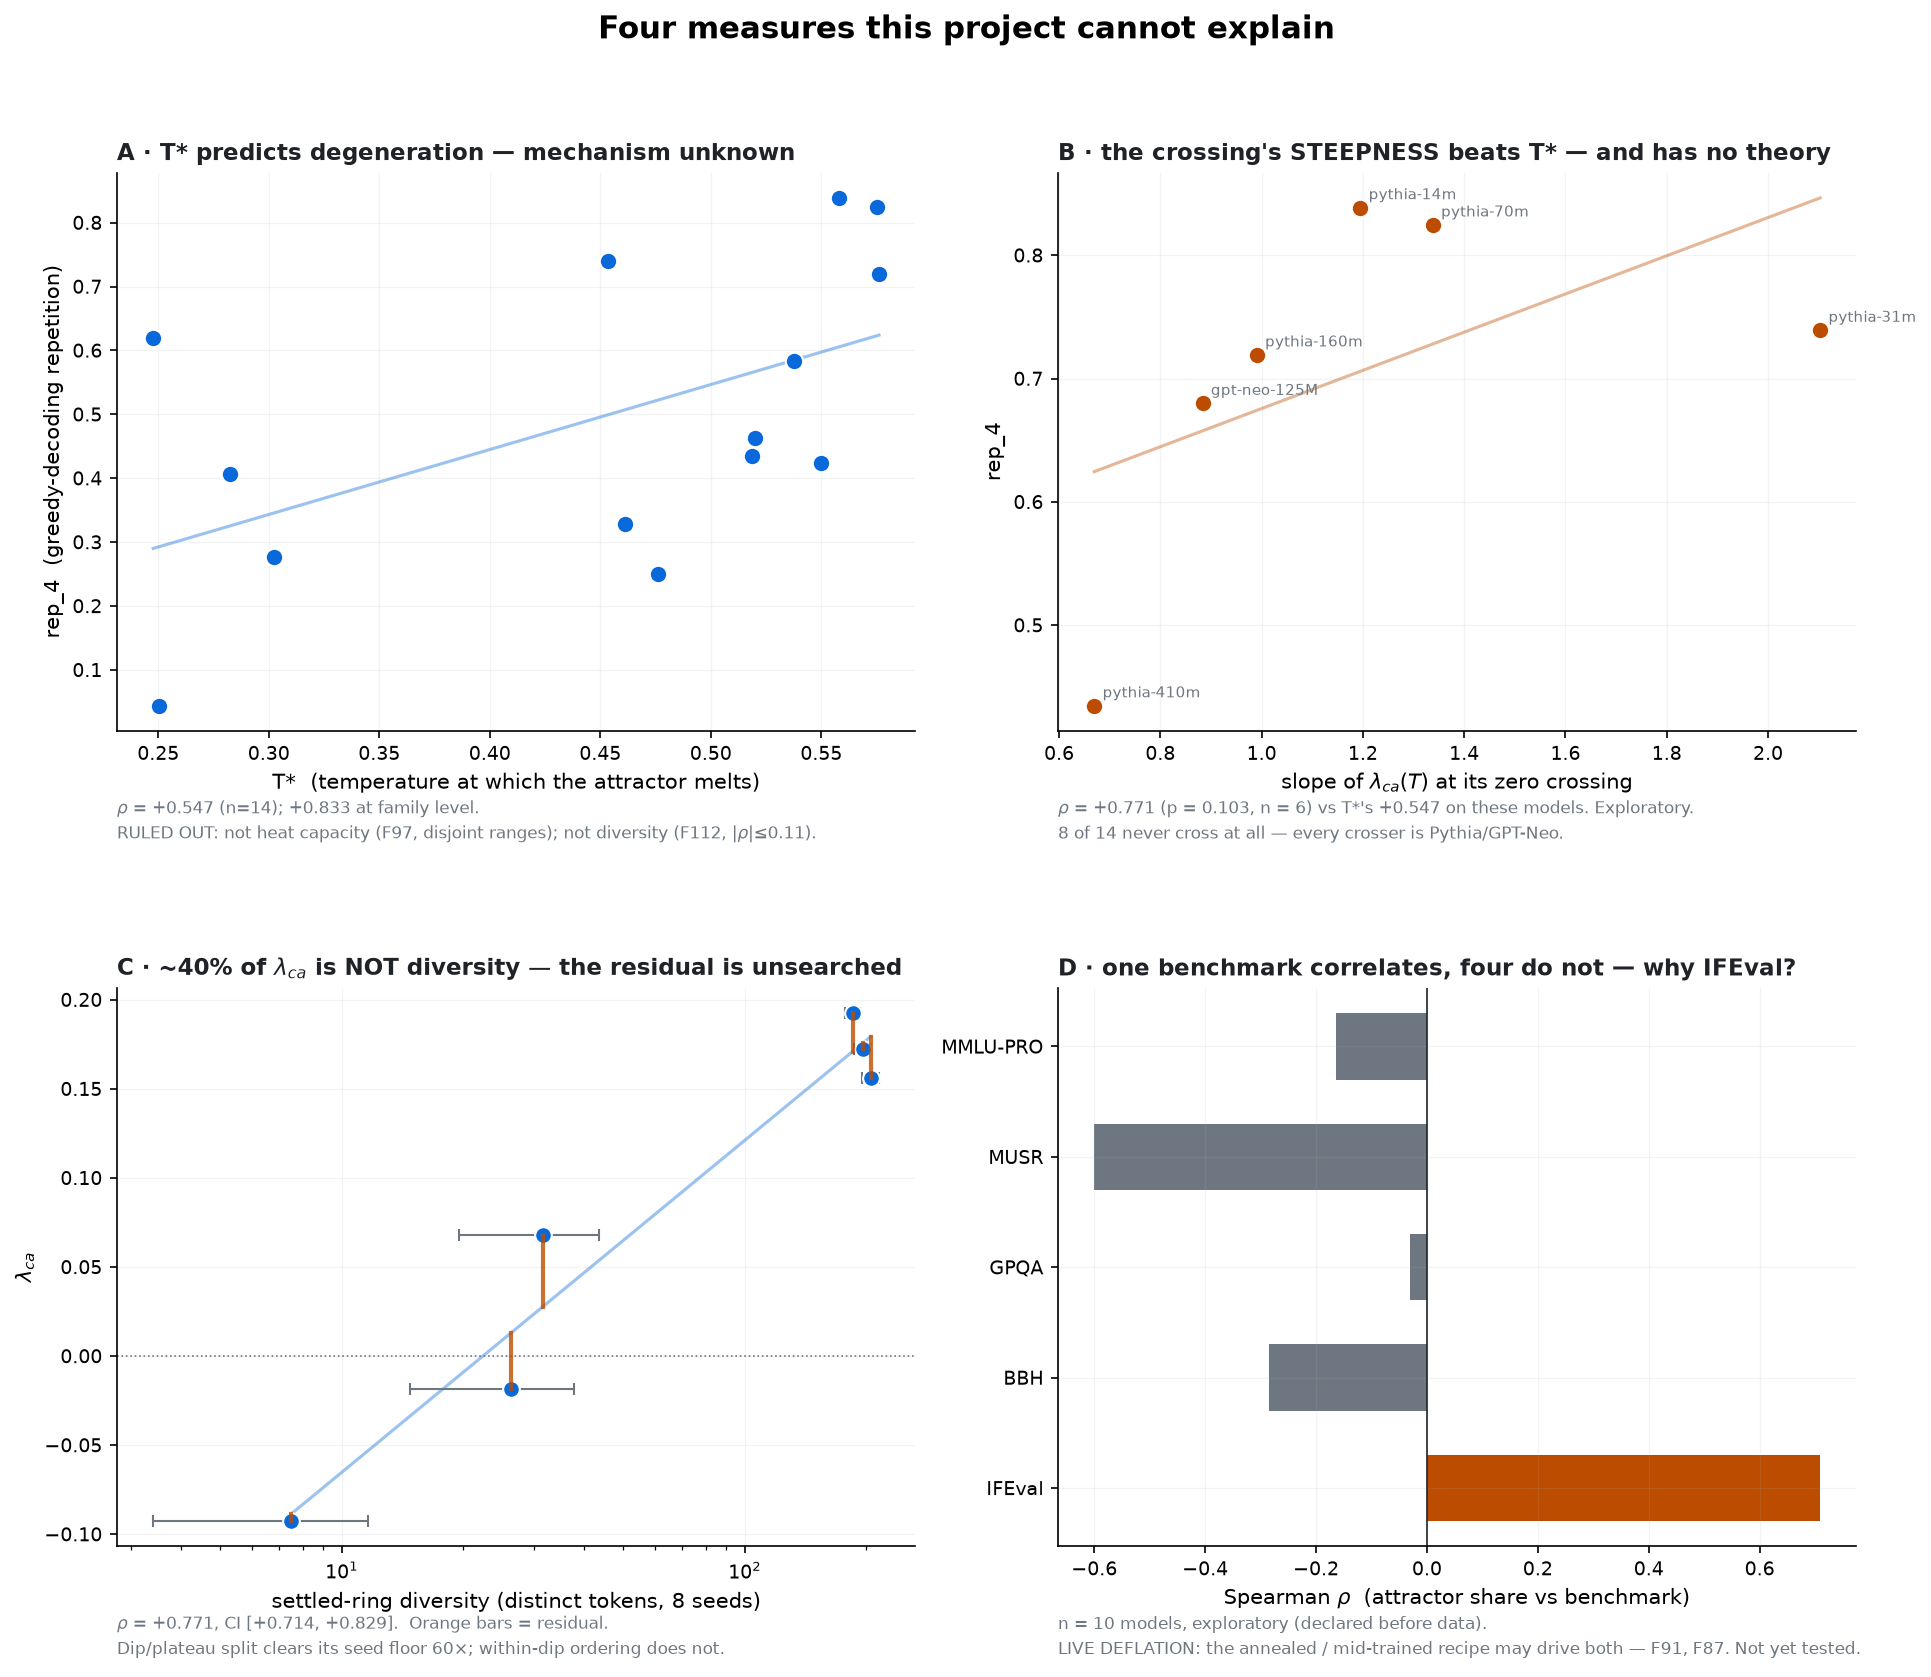
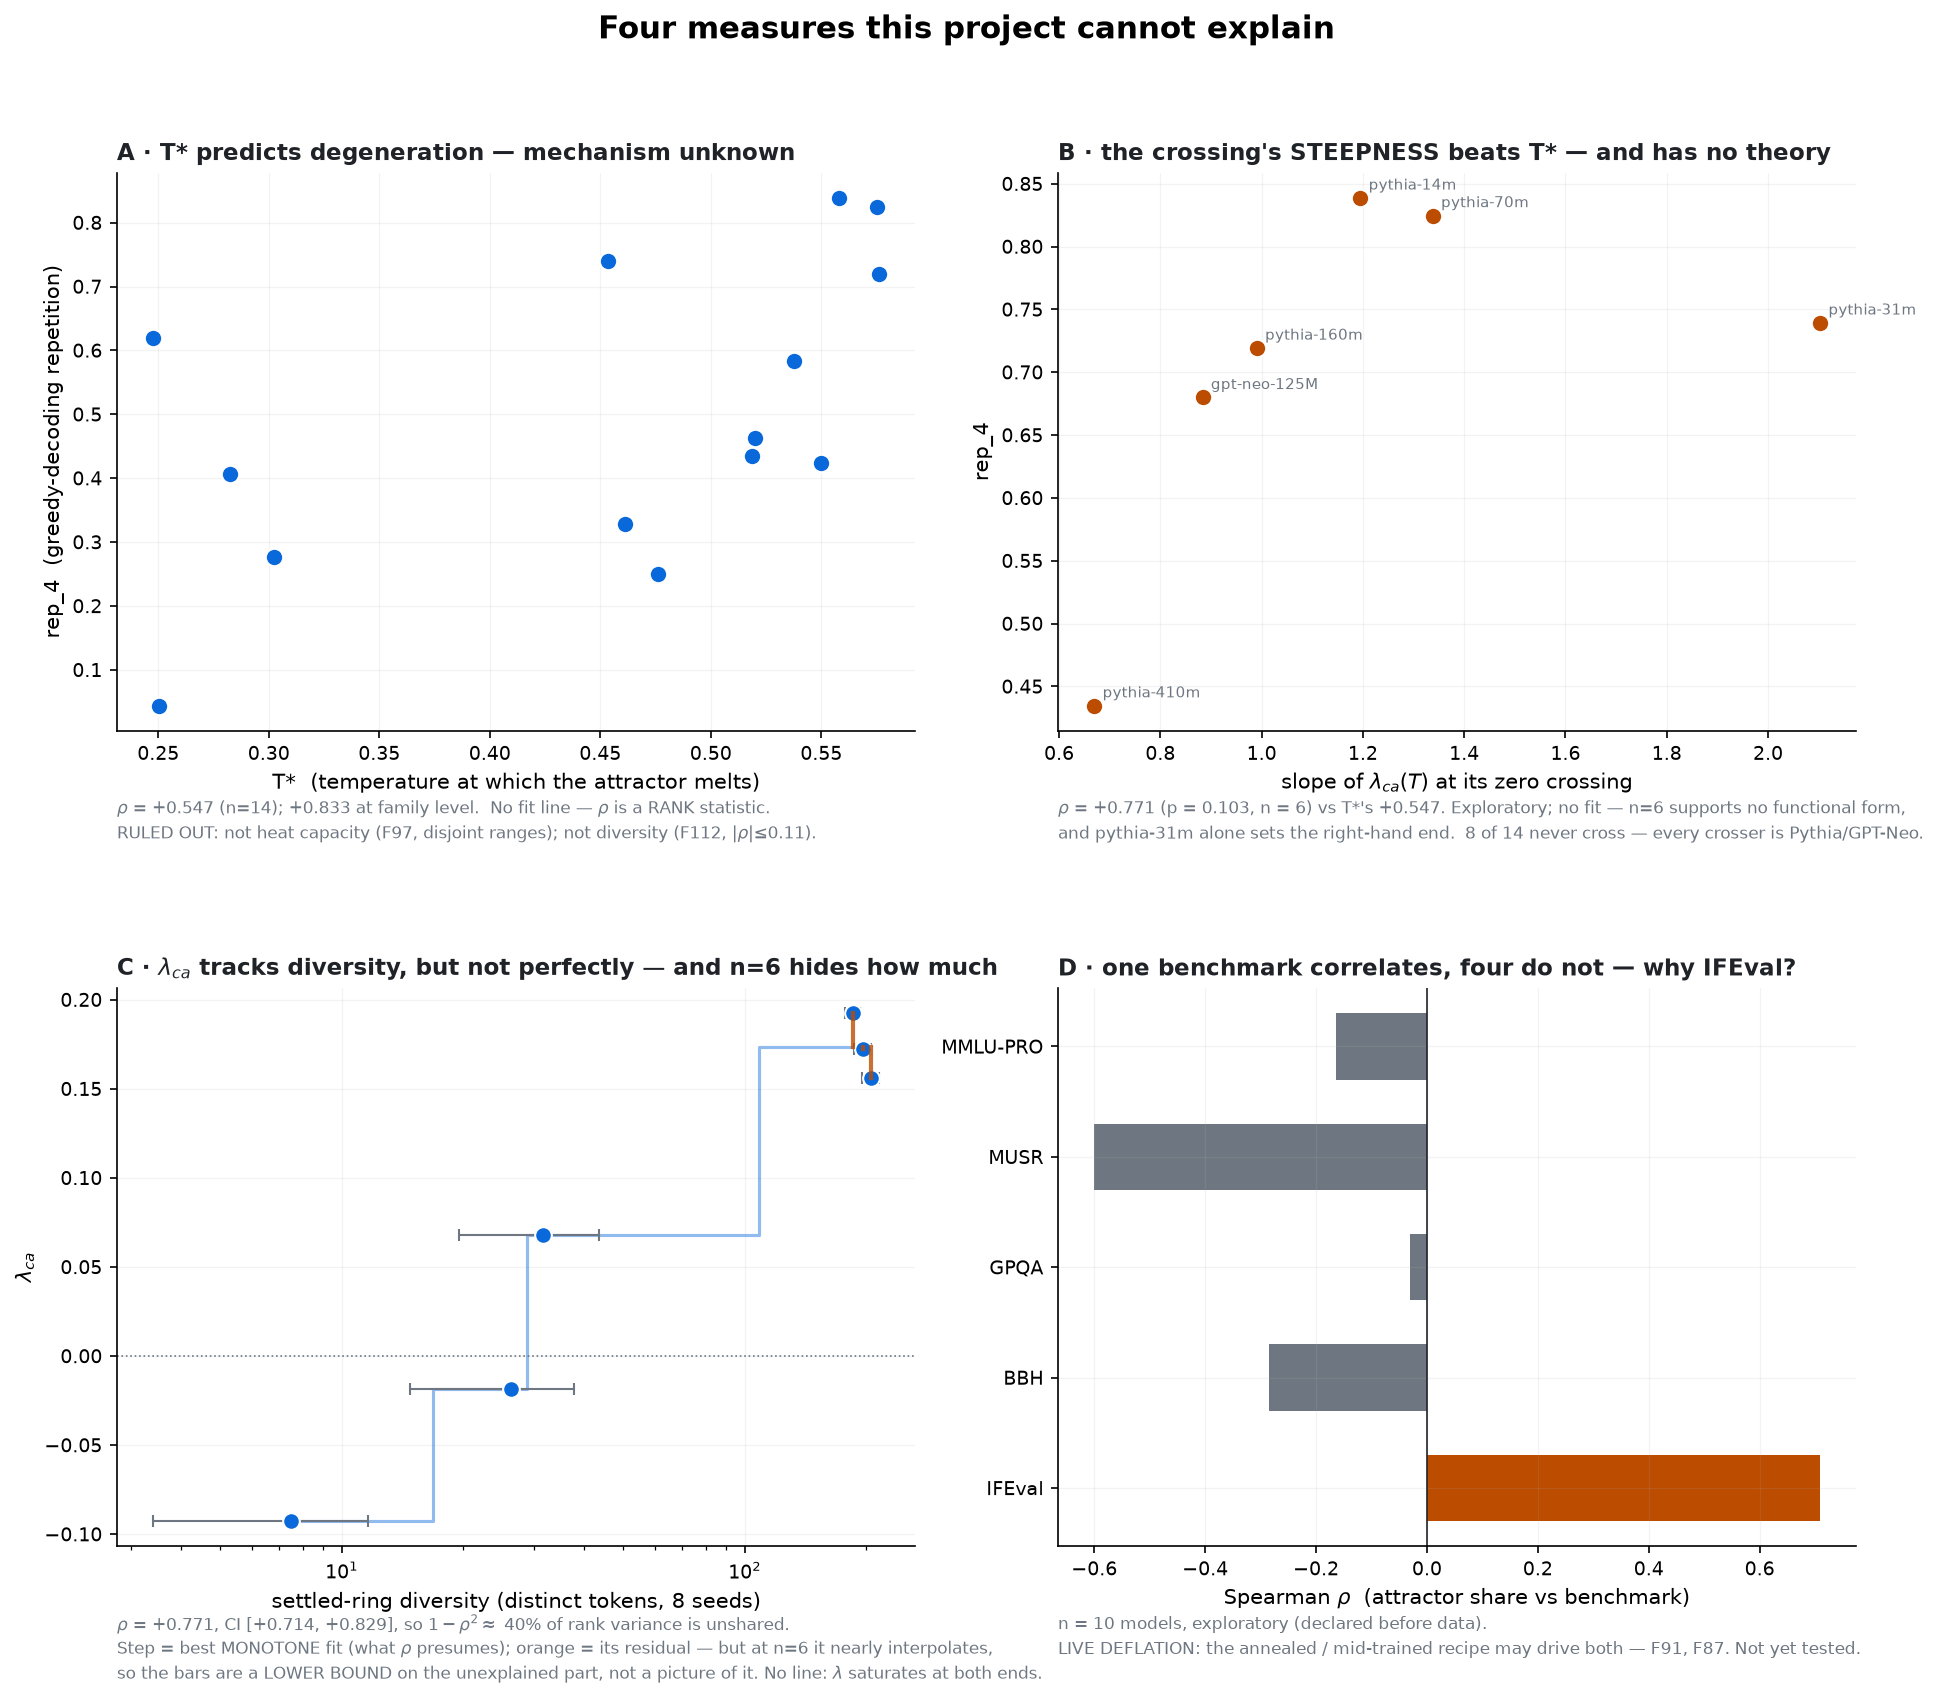
fig/unexplained: drop the OLS fit lines -- every statistic in it is a RANK correlation
The straight lines asserted a linear model that was never fitted and never tested.
Every rho quoted in the figure is Spearman, which presumes monotonicity and nothing
more, so a fitted line was decoration making an unwarranted claim -- and in two
panels it was visibly wrong:

  C  lambda saturates at both ends (a dip floor near -0.09, a plateau near +0.17),
     so the relation is sigmoid; a log-linear fit is wrong at both extremes and only
     passable in the middle.
  B  at n=6 the data supports no functional form, and pythia-31m at slope 2.10 sits
     alone on the right dragging any line toward it.

Panel C's residual is now drawn against the best MONOTONE fit (pool-adjacent-
violators), which is the shape rho actually presumes rather than one imposed on it.

THAT EXPOSED A SECOND PROBLEM, now fixed rather than left. The panel claimed "~40%
of lambda_ca is NOT diversity", which comes from 1 - rho^2 on ranks -- but the
isotonic fit passes exactly through 4 of 6 points, so the drawn residual is tiny and
the picture contradicted the title. With n=6 a monotone fit has enough freedom to
nearly interpolate. The title no longer asserts a share the figure cannot show, and
the caption states that the bars are a LOWER BOUND on the unexplained part rather
than a depiction of it.

Suite green.

diff --git a/experiments/fig_unexplained.py b/experiments/fig_unexplained.py
@@ -46,17 +46,14 @@ def main():
            if isinstance(v.get("t_star"), (int, float))]
     a = ax[0, 0]
     a.scatter([x[1] for x in fin], [x[2] for x in fin], s=70, color=ACC, zorder=3, edgecolor="w")
-    z = np.polyfit([x[1] for x in fin], [x[2] for x in fin], 1)
-    xs = np.linspace(min(x[1] for x in fin), max(x[1] for x in fin), 20)
-    a.plot(xs, np.polyval(z, xs), color=ACC, lw=1.5, alpha=.4, zorder=2)
     a.set_xlabel("T*  (temperature at which the attractor melts)")
     a.set_ylabel("rep_4  (greedy-decoding repetition)")
     a.set_title("A · T* predicts degeneration — mechanism unknown", fontsize=11, fontweight="bold",
                 loc="left", color=INK)
     caps = []
-    caps.append((a, f"$\\rho$ = +0.547 (n={len(fin)}); +0.833 at family level.\n"
-                    "RULED OUT: not heat capacity (F97, disjoint ranges); not diversity (F112, "
-                    "|$\\rho$|≤0.11)."))
+    caps.append((a, f"$\\rho$ = +0.547 (n={len(fin)}); +0.833 at family level.  No fit line — $\\rho$ is a RANK "
+                    f"statistic.\nRULED OUT: not heat capacity (F97, disjoint ranges); not diversity "
+                    f"(F112, |$\\rho$|≤0.11)."))
 
     # ---- B: slope at lambda's zero crossing vs rep_4
     lt = L("lambda_temperature_crossing.json")["analysis"]["rows"]
@@ -66,15 +63,13 @@ def main():
     for m, v in lt.items():
         b.annotate(m.split("/")[-1], (v["slope"], v["rep_4"]), fontsize=7, color=MUTED,
                    xytext=(4, 4), textcoords="offset points")
-    zb = np.polyfit(sl, r4, 1)
-    b.plot(np.linspace(min(sl), max(sl), 20), np.polyval(zb, np.linspace(min(sl), max(sl), 20)),
-           color=WARN, lw=1.5, alpha=.4, zorder=2)
     b.set_xlabel("slope of $\\lambda_{ca}(T)$ at its zero crossing")
     b.set_ylabel("rep_4")
     b.set_title("B · the crossing's STEEPNESS beats T* — and has no theory",
                 fontsize=11, fontweight="bold", loc="left", color=INK)
-    caps.append((b, "$\\rho$ = +0.771 (p = 0.103, n = 6) vs T*'s +0.547 on these models. Exploratory.\n"
-                    "8 of 14 never cross at all — every crosser is Pythia/GPT-Neo."))
+    caps.append((b, "$\\rho$ = +0.771 (p = 0.103, n = 6) vs T*'s +0.547. Exploratory; no fit — n=6 supports "
+                    "no functional form,\nand pythia-31m alone sets the right-hand end.  "
+                    "8 of 14 never cross — every crosser is Pythia/GPT-Neo."))
 
     # ---- C: lambda vs settled diversity, residual highlighted
     dv = L("diversity_multiseed.json")["analysis"]["rows"]
@@ -85,22 +80,44 @@ def main():
     xe = np.array([dv[str(s)]["sd"] for s in steps])
     y = np.array([meas[s][0] for s in steps])
     c = ax[1, 0]
-    lx = np.log(x)
-    fit = np.polyval(np.polyfit(lx, y, 1), lx)
+    # NO STRAIGHT-LINE FIT. Every statistic quoted in this figure is a SPEARMAN rank correlation,
+    # which assumes monotonicity and nothing more. An OLS line asserts a linear model that was
+    # never fitted and never tested -- and here it would be visibly wrong, because lambda saturates
+    # at both ends (a dip floor near -0.09, a plateau near +0.17) so the relation is sigmoid, not
+    # log-linear. The residual is therefore shown against the best MONOTONE fit (pool-adjacent-
+    # violators), which is the shape Spearman actually presumes.
+    o = np.argsort(x)
+    xs_, ys_, ws_ = x[o], y[o].astype(float).copy(), np.ones(len(y))
+    lvl = list(ys_); wts = list(ws_)                      # PAVA, isotonic increasing
+    i = 0
+    while i < len(lvl) - 1:
+        if lvl[i] > lvl[i + 1]:
+            tot = wts[i] + wts[i + 1]
+            m = (lvl[i] * wts[i] + lvl[i + 1] * wts[i + 1]) / tot
+            lvl[i:i + 2] = [m]; wts[i:i + 2] = [tot]
+            i = max(i - 1, 0)
+        else:
+            i += 1
+    iso, k = [], 0
+    for v, w in zip(lvl, wts):
+        iso += [v] * int(round(w)); k += int(round(w))
+    iso = np.array(iso[:len(xs_)])
     c.errorbar(x, y, xerr=xe, fmt="o", ms=8, color=ACC, ecolor=MUTED, elinewidth=1,
                capsize=3, zorder=3, mec="w")
-    o = np.argsort(x)
-    c.plot(x[o], fit[o], color=ACC, lw=1.5, alpha=.4, zorder=2)
-    for xi, yi, fi in zip(x, y, fit):
-        c.plot([xi, xi], [yi, fi], color=WARN, lw=2, alpha=.8, zorder=4)
+    c.step(xs_, iso, where="mid", color=ACC, lw=1.5, alpha=.45, zorder=2)
+    for xi, yi, fi in zip(xs_, ys_, iso):
+        if abs(yi - fi) > 1e-9:
+            c.plot([xi, xi], [yi, fi], color=WARN, lw=2, alpha=.8, zorder=4)
     c.axhline(0, color=MUTED, lw=.8, ls=":")
     c.set_xscale("log")
     c.set_xlabel("settled-ring diversity (distinct tokens, 8 seeds)")
     c.set_ylabel("$\\lambda_{ca}$")
-    c.set_title("C · ~40% of $\\lambda_{ca}$ is NOT diversity — the residual is unsearched",
+    c.set_title("C · $\\lambda_{ca}$ tracks diversity, but not perfectly — and n=6 hides how much",
                 fontsize=11, fontweight="bold", loc="left", color=INK)
-    caps.append((c, "$\\rho$ = +0.771, CI [+0.714, +0.829].  Orange bars = residual.\n"
-                    "Dip/plateau split clears its seed floor 60×; within-dip ordering does not."))
+    caps.append((c, "$\\rho$ = +0.771, CI [+0.714, +0.829], so $1-\\rho^2\\approx$ 40% of rank variance is unshared.\n"
+                    "Step = best MONOTONE fit (what $\\rho$ presumes); orange = its residual — but at n=6 it "
+                    "nearly interpolates,\nso the bars are a LOWER BOUND on the unexplained part, not a "
+                    "picture of it. No line: $\\lambda$ saturates at both ends."))
 
     # ---- D: attractor share vs the benchmark panel
     be = L("band_screen.json")["analysis"]["benchmark_exploratory"]
